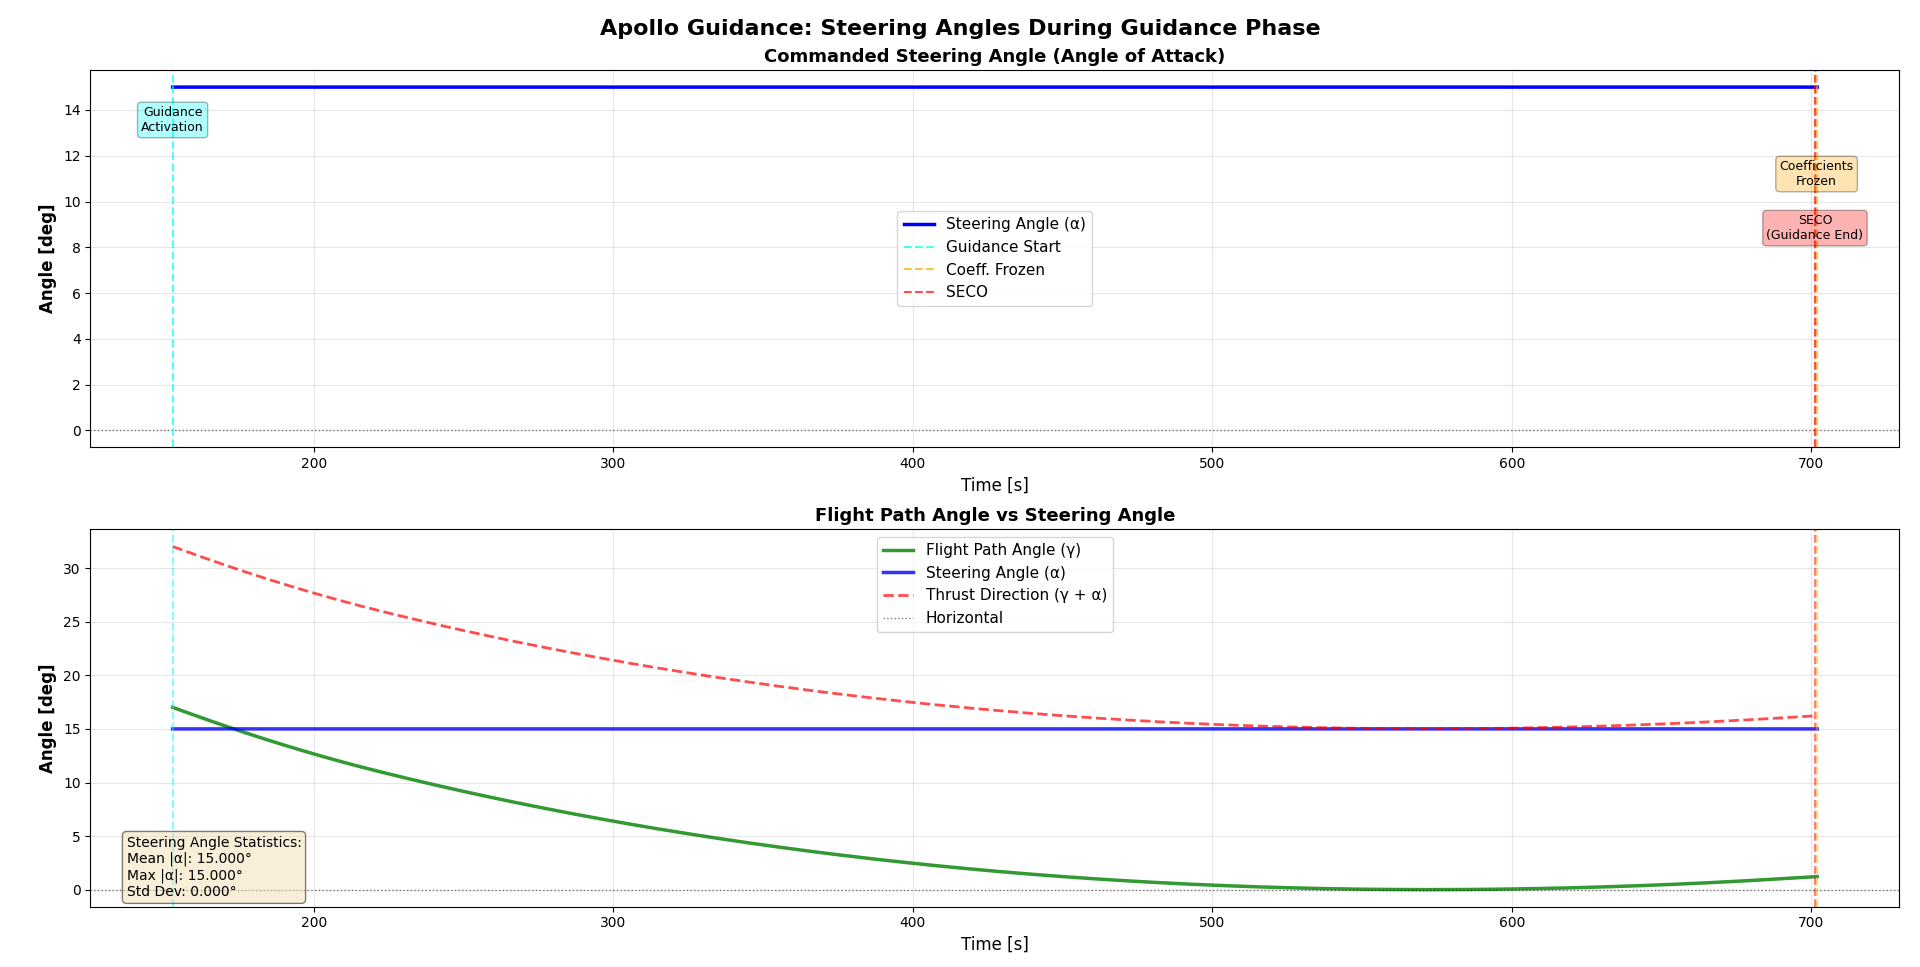
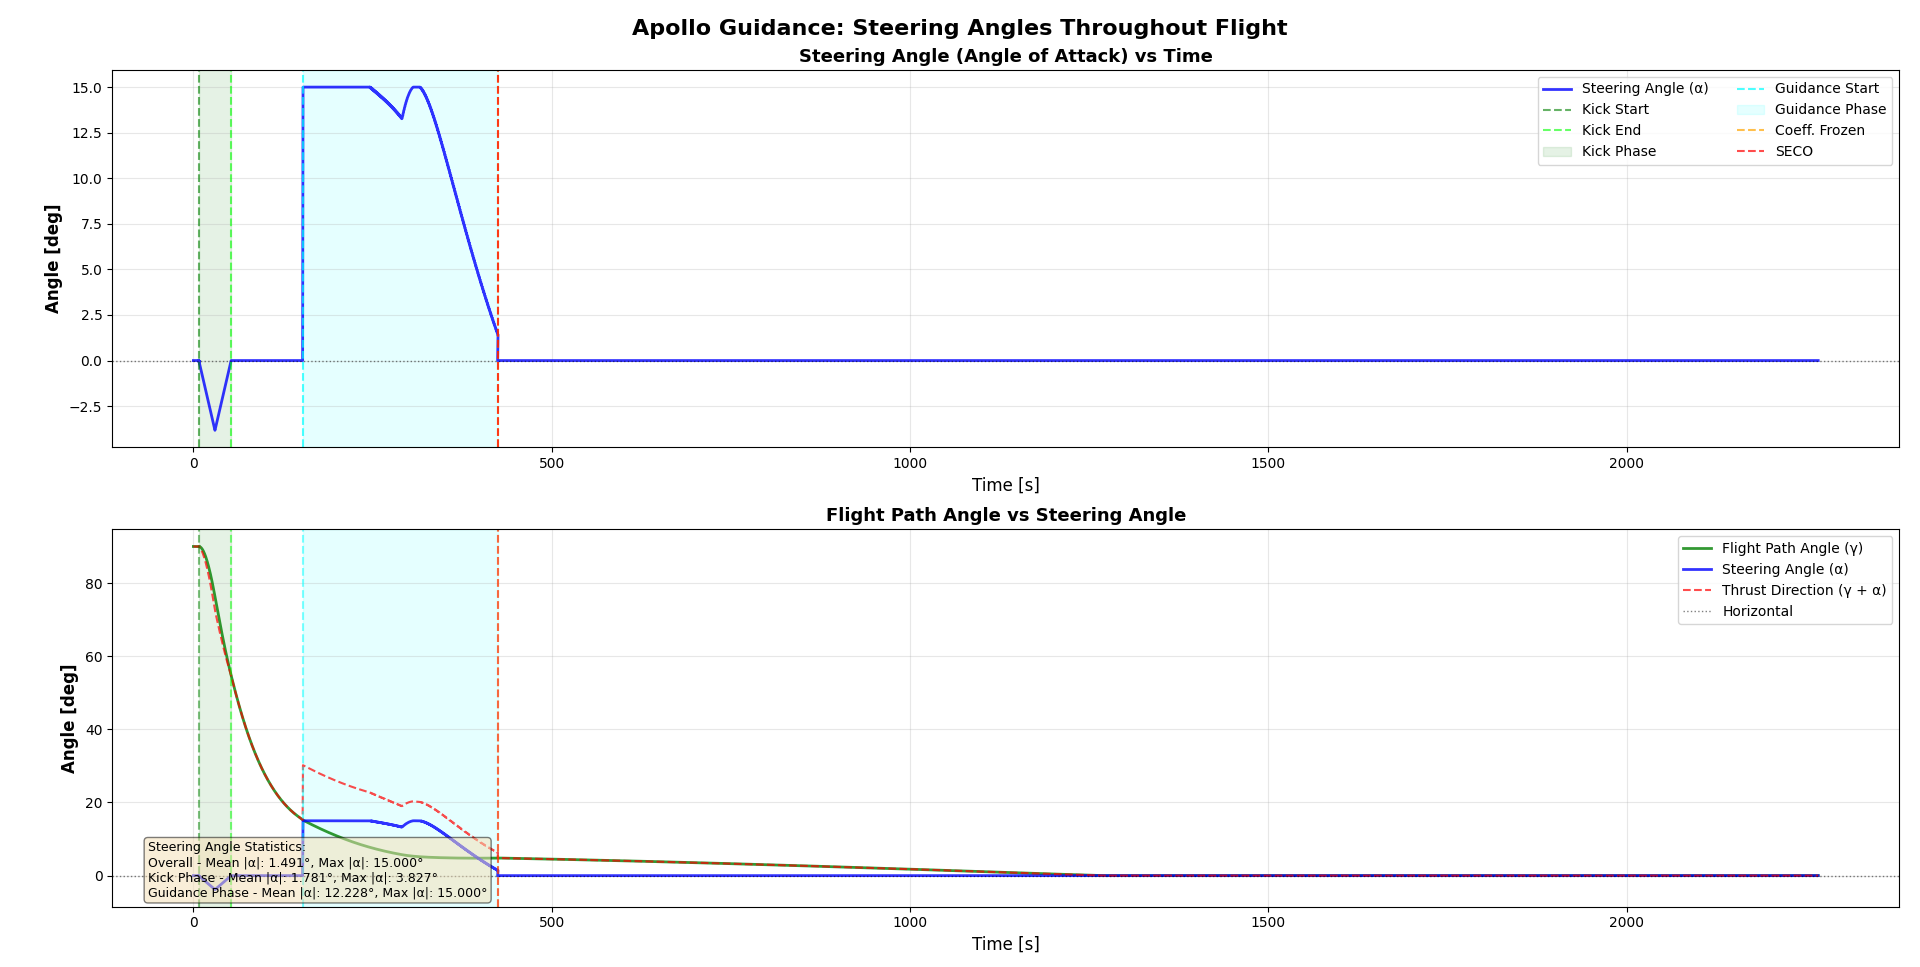
Add guidance plots; revise steering/guidance logic
Add many plot assets for Apollo, Bilinear/Linear/Simple-Polynomial and Gravity-Turn guidance folders (new PNGs) and move Polynomial steering image to Legacy. Comment out angle-clipping safety limits in apollo, linear_tangent and simple_polynomial guidance to allow full commanded alpha during testing. Rework compute_bilinear_coefficients in bilinear_tangent_steering: replace the old tan_initial logic with a targeting/blended estimate, enforce a non-zero terminal derivative, and clarify coefficient derivation to avoid singularities. Update rocket_ascent to include "bilinear_tangent" in the guidance modes that trigger atmosphere-exit initialization. Turn off EVENTS_PRINT in simulation parameters.

diff --git a/Tese/src/Guidance/bilinear_tangent_steering.py b/Tese/src/Guidance/bilinear_tangent_steering.py
@@ -66,15 +66,47 @@ def compute_bilinear_coefficients(current_state, target_altitude, t_go):
     # Boundary conditions
     # Terminal (at t = t_f, τ = 0):
     tan_terminal = 0.0  # Horizontal flight
-    dtan_dt_terminal = 0.0  # Steady approach
     
     # Initial (at t = t_0, τ = t_go):
-    # Assume smooth handover: α ≈ 0, so tan(α + γ) ≈ tan(γ)
-    tan_initial = np.tan(gamma)
+    # CRITICAL: Don't just use current gamma! That causes α=0 throughout.
+    # Instead, compute required (α+γ) based on trajectory targeting.
+    # Use a simple estimate: linear decrease from current to terminal
+    # This ensures non-zero alpha commands for active control.
+    gamma_current = gamma
     
-    # Initial derivative: estimated rate of change
-    # For a typical ascent trajectory, the inclination decreases
-    # Estimate: linear decrease from current to zero over t_go
+    # Estimate what the average flight path angle should be
+    # For a gravity turn from current altitude to target, use empirical relation
+    #tan_initial = np.tan(gamma)  # OLD: This caused α=0 problem!
+    
+    # NEW: Use current gamma but adjust based on targeting needs
+    # The key insight: if we're at gamma_current and want to end at 0°,
+    # and the natural trajectory (without steering) would also decay to ~0°,
+    # then we need to command a DIFFERENT trajectory that requires steering.
+    # Simple approach: bias the initial condition
+    tan_initial = np.tan(gamma_current * 1.2)  # 20% higher → requires negative alpha (pitch down)
+    
+    # Alternative better approach: estimate required thrust vector angle
+    # based on current position relative to target
+    r = current_state[1]
+    target_r = c.R_EARTH + target_altitude
+    altitude_to_gain = target_r - r
+    downrange_estimate = t_go * current_state[2] * np.cos(gamma)  # Rough estimate
+    
+    # Use a targeting-based initial condition
+    if downrange_estimate > 0:
+        # Target flight path angle for efficient trajectory
+        gamma_targeting = np.arctan(altitude_to_gain / downrange_estimate)
+        # Blend with current gamma for stability
+        gamma_blended = 0.7 * gamma_current + 0.3 * gamma_targeting
+        tan_initial = np.tan(gamma_blended)
+    else:
+        # Fallback: use biased current gamma
+        tan_initial = np.tan(gamma_current)
+    
+    # Terminal derivative: non-zero to avoid singularity
+    dtan_dt_terminal = -0.02  # Moderate terminal rate (~ -1.1 deg/s)
+    
+    # Initial derivative: smooth transition
     dtan_dt_initial = (tan_terminal - tan_initial) / t_go
     
     # Special handling for near-zero or very small t_go
@@ -82,7 +114,7 @@ def compute_bilinear_coefficients(current_state, target_altitude, t_go):
         # Near target, use simple form (avoid division issues)
         return [0.0, 0.0, 0.0, 1.0]
     
-    # Now solve for coefficients using boundary conditions
+    # Now solve for bilinear coefficients using boundary conditions
     # Let f(τ) = tan(α + γ) = (c1*τ + c2) / (c1'*τ + c2')
     #
     # At τ = t_go (initial time):
@@ -168,26 +200,14 @@ def compute_bilinear_coefficients(current_state, target_altitude, t_go):
     # c1*t_go = tan_initial*c1'*t_go + tan_initial
     # c1 = tan_initial*c1' + tan_initial/t_go  ... (A)
     
-    # Derivative: f'(τ) = c1/(c1'*τ + 1)²
-    # At terminal: f'(0) = c1/1 = c1 = -dtan_dt_terminal
-    # If we want zero terminal derivative, c1 = 0
-    # But then from (A): 0 = tan_initial*c1' + tan_initial/t_go
-    # c1' = -1/t_go
+    # Derivative: f'(τ) = [c1*c2' - c2*c1'] / (c1'*τ + c2')²
+    # With c2 = 0, c2' = 1: f'(τ) = c1 / (c1'*τ + 1)²
+    # At terminal (τ = 0): f'(0) = c1 / 1² = c1
+    # Note: f'(τ) = df/dτ, and since τ decreases with time: df/dt = -df/dτ
+    # So: dtan_dt_terminal = -f'(0) = -c1
+    # Therefore: c1 = -dtan_dt_terminal
     
-    if abs(dtan_dt_terminal) < 1e-6:
-        # Zero terminal derivative case
-        c1 = 0.0
-        c1_prime = -1.0 / t_go
-        
-        # Verify initial condition
-        # tan = (0*t_go + 0) / (-1/t_go*t_go + 1) = 0 / 0 ... problem!
-        
-        # This approach has singularities. Use a practical approximation:
-        # Set a small non-zero terminal derivative
-        dtan_dt_terminal = -0.01 / t_go  # Small but non-zero
-    
-    # General case with non-zero terminal derivative
-    # From derivative at τ = 0: c1 = -dtan_dt_terminal
+    # From derivative relationship
     c1 = -dtan_dt_terminal
     
     # From equation (A): c1 = tan_initial*c1' + tan_initial/t_go

diff --git a/Tese/src/Guidance/apollo_guidance.py b/Tese/src/Guidance/apollo_guidance.py
@@ -269,7 +269,7 @@ def apollo_guidance(t, t_epoch, state, coefficients):
     
     # Safety limits (prevent excessive maneuvers)
     # Justification: Physical limits of vehicle control authority
-    alpha = np.clip(alpha, -np.deg2rad(15), np.deg2rad(15))
+   # alpha = np.clip(alpha, -np.deg2rad(15), np.deg2rad(15))
     
     # Debug output on first call (only once)
     if not hasattr(apollo_guidance, '_debug_printed'):

diff --git a/Tese/src/Guidance/linear_tangent_steering.py b/Tese/src/Guidance/linear_tangent_steering.py
@@ -132,7 +132,7 @@ def linear_tangent_steering(t, t_go, current_state, coefficients):
     
     # Safety limits to prevent excessive maneuvering
     # Typical limits for ascent: ±15 degrees
-    alpha = np.clip(alpha, -np.deg2rad(15), np.deg2rad(15))
+    # alpha = np.clip(alpha, -np.deg2rad(15), np.deg2rad(15))
     
     return alpha
 

diff --git a/Tese/src/Guidance/simple_polynomial.py b/Tese/src/Guidance/simple_polynomial.py
@@ -103,6 +103,6 @@ def polynomial_guidance(t, t_go, current_state, coefficients):
     alpha = a0 + a1*tau 
     
     # Limit angle of attack to reasonable values
-    alpha = np.clip(alpha, -np.deg2rad(10), np.deg2rad(10))
+    # alpha = np.clip(alpha, -np.deg2rad(10), np.deg2rad(10))
     
     return alpha

diff --git a/Tese/src/Input_File/simulation_parameters.py b/Tese/src/Input_File/simulation_parameters.py
@@ -68,4 +68,4 @@ DURATION_AFTER_SIMULATION = 1000.               # duration of simulation after r
 # FOR DEBUGGING
 # ===================================================
 INTERRUPTS_PRINT = False
-EVENTS_PRINT = True
+EVENTS_PRINT = False

diff --git a/Tese/src/Simulation/rocket_ascent.py b/Tese/src/Simulation/rocket_ascent.py
@@ -582,7 +582,7 @@ def rocket_dynamics(t, state):
         # Phase 1: Initial gravity turn (pitchover) - COMMON TO ALL MODES
         alpha = pitch_program_linear(t, current_kick_angle)
         
-    elif (kick_performed and sim_params.GUIDANCE_MODE in ["simple_poly", "linear_tangent", "apollo"] and 
+    elif (kick_performed and sim_params.GUIDANCE_MODE in ["simple_poly", "linear_tangent", "bilinear_tangent", "apollo"] and 
           alt > sim_params.ALT_NO_ATMOSPHERE and (not atmosphere_exited) and F_T > 0):
         # Detect atmosphere exit and initialize guidance (only if engines burning)
         atmosphere_exited = True